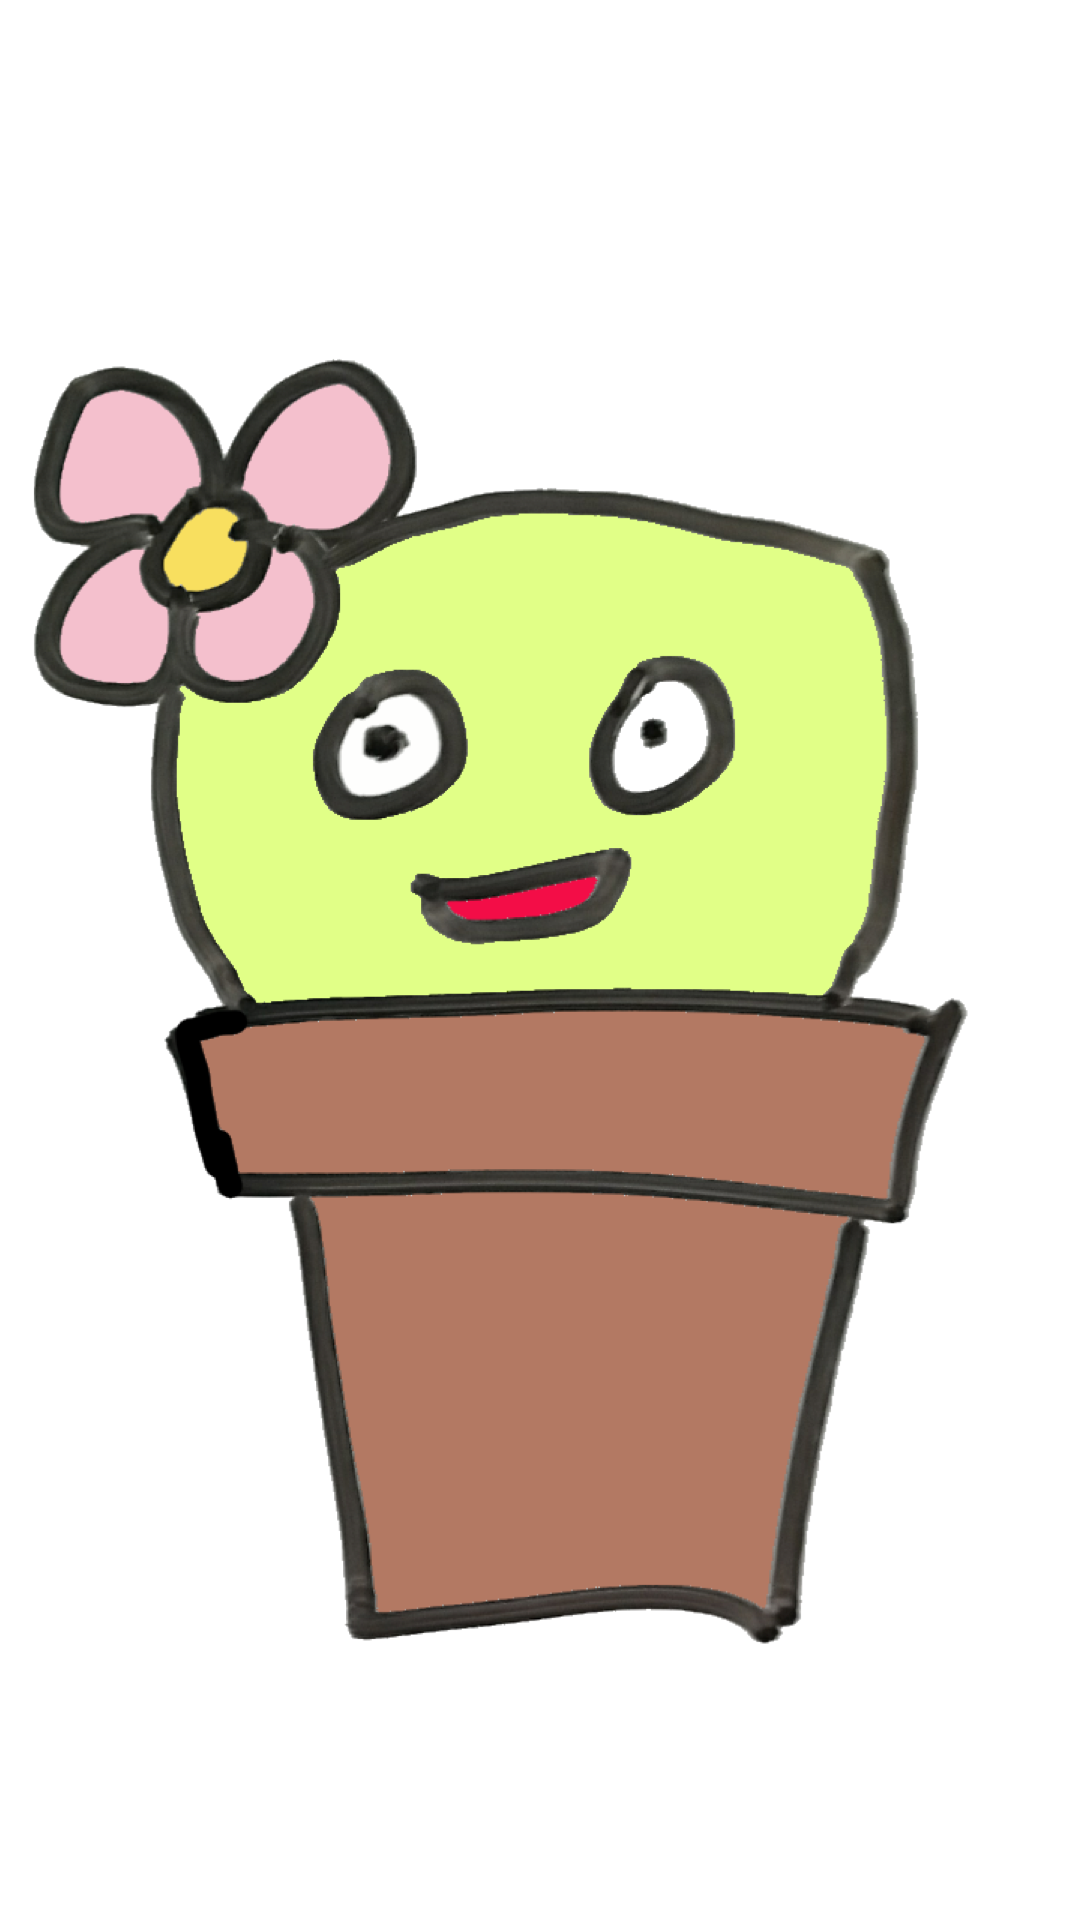
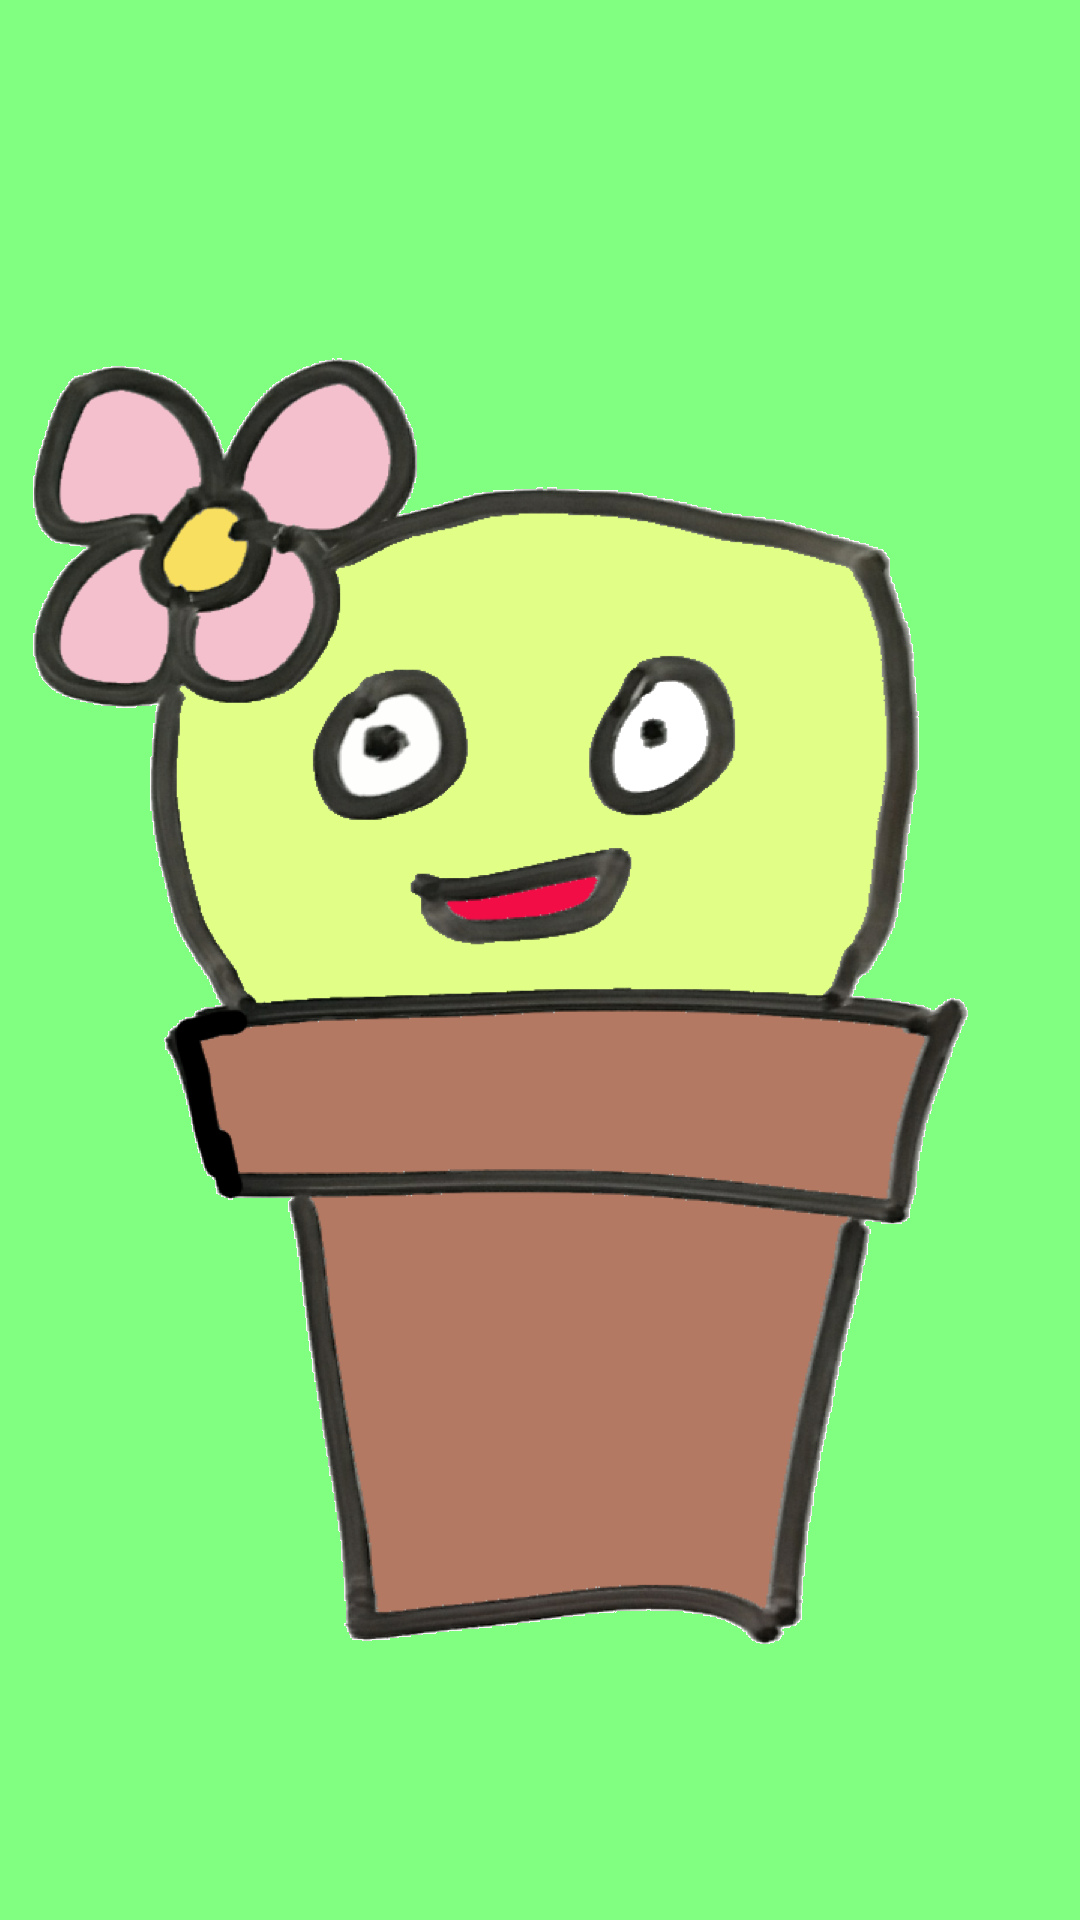
キャラクター画像の枠を調整，キャラクター画像に背景色を追加

diff --git a/AIoT/templates/AIoT/datalist.html b/AIoT/templates/AIoT/datalist.html
@@ -35,9 +35,9 @@ body {
     /*padding: 0.5em 1em;
     margin: 2em 0;*/
     height: 484px;
-    width: 320px;
+    width: 280px;
     border: double 9px orange;
-    /*border-radius: 10px;*/
+    border-radius: 10px;
 }
 .zu1 image {
     margin: 0;
@@ -72,7 +72,7 @@ body {
 #center {
   border-top: 4px solid dimgray;
   border-bottom: 4px solid dimgray;
-  background-color: white;
+  background-color: dimgray;
   height: 550px;
 }
 #right {
@@ -218,7 +218,8 @@ color: white;/*文字を白に*/
 font-family:"HGP創英角ﾎﾟｯﾌﾟ体";
 }
 .box1{
-    padding: 0.5em 1em;
+    /*padding: 0.5em 1em;*/
+    padding: 0.5em;
     /*margin: 2em 0;*/
     color: dimgray;
     background: #c6e4ff;
@@ -273,7 +274,7 @@ font-family:"HGP創英角ﾎﾟｯﾌﾟ体";
     <div style="background-color: dimgray; border-top: 4px solid dimgray;">
     <div id="watertime_select" class="box1" align="center">
     <form name="water_form" action="Sample.html">
-    <font size="4px" style="font-weight: bold;">水やり時間</font>
+    <font size="3px" style="font-weight: bold;">水やり時間</font>
       <script type="text/javascript">
       //セレクトボックスの作成
       document.write('<select name="water_time">');
@@ -303,13 +304,16 @@ font-family:"HGP創英角ﾎﾟｯﾌﾟ体";
       <div id="cal0" class="cal_wrapper">
         Calendar Loading
       </div>
+    <div style="background-color: dimgray; border-top: 4px solid dimgray; border-bottom: 4px solid dimgray;">
     <div id="threshold_select" class="box1" align="center">
       <p><form name="threshold_form" action="Sample.html">
         <font size="4px" style="font-weight: bold;">水分量閾値</font>
         <input id="threshold" name="threshold" maxlength="4" cols="4" rows="1"></input>
       <a id="threshold_write_button" onclick="threshold_write()" class="btn btn-info">更新</a>
       </form></p>
-    </div><br>
+    </div>
+    </div>
+    <br>
     <div id="link_list" align="center">
       <!--<div style="background-color: khaki; border-top: 4px solid royalblue; border-bottom: 4px solid royalblue;">
         <font size="5px" color="blue" style="font-weight: bold;">リンク</font>
